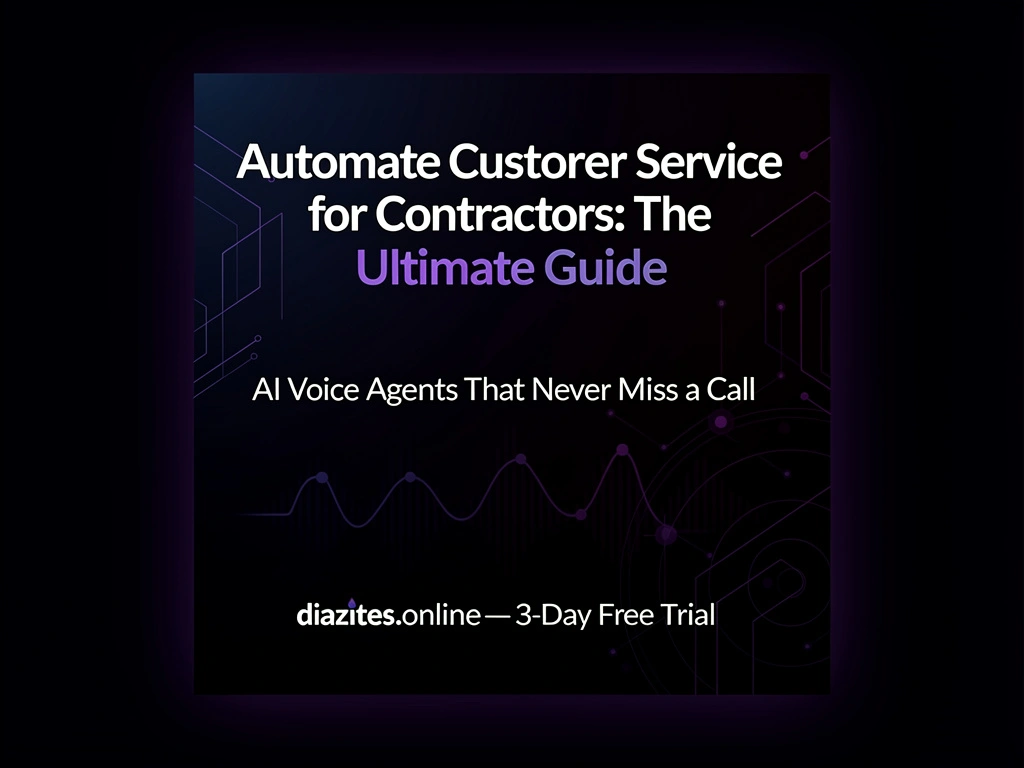
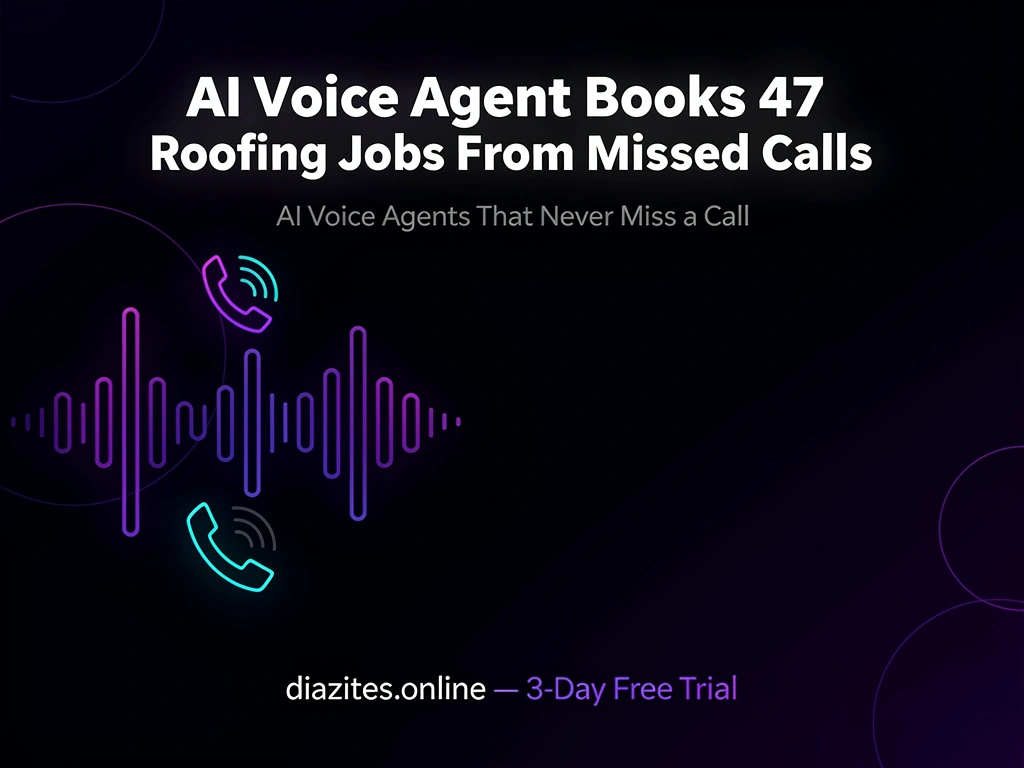
fix: blog /blog/ route + 4 articles + flyer — deploy to PROD

diff --git a/static/blog/2026-08-11-ai-voice-agent-roofing-missed-calls-47-jobs.html b/static/blog/2026-08-11-ai-voice-agent-roofing-missed-calls-47-jobs.html
@@ -1,0 +1,53 @@
+<!DOCTYPE html>
+<html lang="en">
+<head>
+<meta charset="UTF-8">
+<meta name="viewport" content="width=device-width, initial-scale=1.0">
+<title>AI Voice Agent Books 47 Roofing Jobs From Missed Calls | Diazites AI</title>
+<meta name="description" content="See how a roofing company turned 47 missed calls into booked jobs with an AI voice agent. Cut response time, win more roofs, and never lose a lead again.">
+<meta name="keywords" content="AI voice agent for roofing, missed call AI, roofing lead response, AI answering service, roofing contractor automation">
+<meta property="og:title" content="AI Voice Agent Books 47 Roofing Jobs From Missed Calls">
+<meta property="og:description" content="See how a roofing company turned 47 missed calls into booked jobs with an AI voice agent. Cut response time, win more roofs, and never lose a lead again.">
+<meta property="og:url" content="https://diazites.online/blog/2026-08-11-ai-voice-agent-roofing-missed-calls-47-jobs.html">
+<meta property="og:type" content="article">
+<link rel="canonical" href="https://diazites.online/blog/2026-08-11-ai-voice-agent-roofing-missed-calls-47-jobs.html">
+<style>
+  *{margin:0;padding:0;box-sizing:border-box}
+  body{font-family:-apple-system,BlinkMacSystemFont,'Segoe UI',sans-serif;background:#0a0a12;color:#e2e8f0;line-height:1.7}
+  .container{max-width:800px;margin:0 auto;padding:40px 20px}
+  h1{font-size:2.2em;margin-bottom:10px;background:linear-gradient(135deg,#a855f7,#ec4899);-webkit-background-clip:text;-webkit-text-fill-color:transparent}
+  h2{font-size:1.5em;margin:30px 0 15px;color:#a855f7}
+  p{margin-bottom:18px;color:#cbd5e1}
+  ul{margin:15px 0 15px 25px}
+  li{margin-bottom:8px;color:#cbd5e1}
+  .meta{color:#64748b;font-size:0.9em;margin-bottom:30px}
+  .cta{background:linear-gradient(135deg,#a855f7,#ec4899);padding:25px;border-radius:16px;text-align:center;margin:40px 0}
+  .cta a{color:white;font-weight:bold;font-size:1.2em;text-decoration:none}
+  .cta p{color:rgba(255,255,255,0.85);margin:10px 0 0}
+  .footer{text-align:center;color:#475569;font-size:0.85em;margin-top:60px;padding-top:30px;border-top:1px solid #1e1e2e}
+</style>
+</head>
+<body>
+<div class="container">
+<h1>AI Voice Agent Books 47 Roofing Jobs From Missed Calls</h1>
+<div class="meta">Published August 11, 2026 · Diazites AI · 583 words</div>
+<h2>Why Missed Calls Are Costing Roofers Thousands</h2>
+<p>For a roofing contractor, the phone rings when the storm does. Hail damage, wind-stripped shingles, and leaking ceilings don't wait for business hours — and neither do homeowners. Yet the average roofing company misses 20-30% of incoming calls, according to industry estimates. Every missed call is a competitor's estimate, a lost permit, and a job that goes to someone else. One mid-sized roofing company in the Midwest decided to stop accepting that math. They deployed an AI voice agent to answer every single call, 24/7, and booked 47 jobs from calls that previously would have rolled to voicemail. The fix wasn't a bigger sales team or a more expensive CRM. It was answering the phone — every time, in under three seconds.</p>
+<p>The problem wasn't that their crews were lazy. It was that they were busy. When a roofer is on a ladder, on a roof, or driving between estimates, they can't pick up. The old solution — an answering service — cost hundreds per month and often just took a message, which the homeowner never returned. The AI voice agent changed the game by doing what a human receptionist does, but faster and cheaper: it answers, qualifies the caller, checks availability, and books the estimate directly into the calendar. For the homeowner, it sounds like a real person. For the roofer, it's a booked appointment that shows up automatically.</p>
+<h2>How the AI Agent Turned Calls Into Booked Jobs</h2>
+<p>The roofing company didn't just install the agent and hope. They set it up with a specific workflow designed to convert callers at the moment of peak intent. Here's the system that produced 47 booked jobs:</p>
+<ul><li>Answer in under 3 seconds: The AI agent picks up instantly, day or night, so the caller never has a chance to hang up and call the next roofer on Google.</li><li>Qualify before you dispatch: The agent asks about the type of damage, the age of the roof, insurance involvement, and whether it's an emergency — so the roofer only drives out for real jobs.</li><li>Book directly into the calendar: The agent checks the roofer's availability, offers two or three time slots, and confirms the appointment in real time. No back-and-forth texts, no "I'll call you back."</li></ul>
+<p>That last point was the biggest win. By booking the estimate immediately, the company cut its average lead-to-appointment time from 8 hours to under 5 minutes. In roofing, speed is everything — homeowners who get a fast response convert at more than twice the rate of those who wait. The result: 47 confirmed jobs that would have been dead air, with a conversion rate on those calls of roughly 60%, well above the industry average for inbound leads.</p>
+<p>The agent also captured caller details, notes, and photos sent via text, so the sales rep walked into every estimate already knowing the situation. That prep time alone saved the crew hours each week and made them look far more professional than the competitor who showed up cold. The roofing company now treats every missed call as a process failure, not an inevitability — and their revenue reflects it.</p>
+<p>If your roofing company is still losing leads to voicemail, you're leaving money on the roof. An AI voice agent isn't a luxury anymore — it's the cheapest salesperson you'll ever hire, and it never sleeps. Stop watching calls ring out and start watching them book.</p>
+<p><strong>Ready to automate your calls?</strong> <a href="https://diazites.online">Try Diazites free for 3 days →</a></p>
+<div class="cta">
+  <a href="https://diazites.online">🚀 Try Diazites Free for 3 Days →</a>
+  <p>AI voice agents that answer every call, book appointments, and follow up 24/7. No setup fees.</p>
+</div>
+<div class="footer">
+  © 2026 Diazites AI · <a href="https://diazites.online" style="color:#a855f7">diazites.online</a> · AI Voice Agents for Small Business
+</div>
+</div>
+</body>
+</html>

diff --git a/static/blog/index.html b/static/blog/index.html
@@ -31,6 +31,10 @@ h1{font-size:2.5em;margin-bottom:8px;background:linear-gradient(135deg,#a855f7,#
 <h2 style="margin:0 0 10px"><a href="/blog/2026-08-11-automate-customer-service-contractors.html" style="color:#a855f7;text-decoration:none;font-size:1.3em">Automate Customer Service for Contractors: The Ultimate Guide | Diazites AI</a></h2>
 <p style="color:#94a3b8;margin:0 0 8px">Discover how AI voice agents automate contractor customer service — answer calls 24/7, book jobs, and win more leads. Try Diazites free for 3 days.</p>
 <small style="color:#475569">2026-08-11</small>
+</article><article style="background:#13132a;border:1px solid #1e1e3e;border-radius:16px;padding:25px;margin-bottom:20px">
+<h2 style="margin:0 0 10px"><a href="/blog/2026-08-11-ai-voice-agent-roofing-missed-calls-47-jobs.html" style="color:#a855f7;text-decoration:none;font-size:1.3em">AI Voice Agent Books 47 Roofing Jobs From Missed Calls | Diazites AI</a></h2>
+<p style="color:#94a3b8;margin:0 0 8px">See how a roofing company turned 47 missed calls into booked jobs with an AI voice agent. Cut response time, win more roofs, and never lose a lead again.</p>
+<small style="color:#475569">2026-08-11</small>
 </article>
 <div class="cta">
   <a href="https://diazites.online">🚀 Try Diazites Free →</a>

diff --git a/multi_biz_dashboard_v2.py b/multi_biz_dashboard_v2.py
@@ -565,7 +565,7 @@ body{background:#08080f;color:#f1f1f5;overflow-x:hidden}
         <ul class="text-left space-y-3 text-sm mb-8">
           <li class="flex items-center gap-2"><span class="text-green-400">✓</span> 2 AI Voice Agents</li>
           <li class="flex items-center gap-2"><span class="text-green-400">✓</span> 2 Phone Numbers</li>
-          <li class="flex items-center gap-2"><span class="text-green-400">✓</span> <strong>1,000</strong> Call Minutes</li>
+          <li class="flex items-center gap-2"><span class="text-green-400">✓</span> <strong>550</strong> Call Minutes</li>
           <li class="flex items-center gap-2"><span class="text-green-400">✓</span> Advanced Analytics & Reports</li>
           <li class="flex items-center gap-2"><span class="text-green-400">✓</span> Priority Support</li>
           <li class="flex items-center gap-2"><span class="text-green-400">✓</span> Outbound Campaigns</li>
@@ -2736,7 +2736,7 @@ def dashboard():
     plan_key = biz.get('plan', 'starter') or 'starter'
     pricing_tiers = {
         "starter": {"name": "Starter", "price": 97, "minutes_limit": 250, "features": ["1 AI Agent", "1 Number", "250 min", "Booking", "Analytics", "Email Support"]},
-        "pro": {"name": "Professional", "price": 197, "minutes_limit": 1000, "features": ["2 AI Agents", "2 Numbers", "1000 min", "Campaigns", "SMS", "Calendar", "Priority Support"]},
+        "pro": {"name": "Professional", "price": 197, "minutes_limit": 550, "features": ["2 AI Agents", "2 Numbers", "550 min", "Campaigns", "SMS", "Calendar", "Priority Support"]},
         "premium": {"name": "Premium", "price": 297, "minutes_limit": 2500, "features": ["3 AI Agents", "3 Numbers", "2500 min", "Forwarding", "Priority Support"]},
         "enterprise": {"name": "Enterprise", "price": 497, "minutes_limit": 7500, "features": ["5 AI Agents", "5 Numbers", "7500 min", "API", "White-Label", "Dedicated Manager"]},
         "custom": {"name": "Custom", "price": 997, "minutes_limit": 0, "features": ["Custom config"]}

diff --git a/admin_panel.py b/admin_panel.py
@@ -118,7 +118,7 @@ INDUSTRY_PRESETS = {
 
 PRICING_TIERS = {
     "starter": {"name": "Starter", "price": 97, "calls_included": 500, "minutes_limit": 250, "features": "1 AI agent, 1 number, unlimited calls, 250 min, booking, email support"},
-    "pro": {"name": "Professional", "price": 197, "calls_included": 2000, "minutes_limit": 500, "features": "2 AI agents, 2 numbers, unlimited calls, 500 min, campaigns, SMS, calendar"},
+    "pro": {"name": "Professional", "price": 197, "calls_included": 2000, "minutes_limit": 550, "features": "2 AI agents, 2 numbers, unlimited calls, 550 min, campaigns, SMS, calendar"},
     "premium": {"name": "Premium", "price": 250, "calls_included": 5000, "minutes_limit": 1000, "features": "3 AI agents, 3 numbers, unlimited calls, 1000 min, forwarding, priority support"},
     "enterprise": {"name": "Enterprise", "price": 497, "calls_included": 15000, "minutes_limit": 5000, "features": "5 AI agents, 5 numbers, unlimited calls, 5000 min, white-label, API"},
     "custom": {"name": "Custom", "price": 997, "calls_included": 0, "minutes_limit": 0, "features": "Fully customizable package"}

diff --git a/agent_api.py b/agent_api.py
@@ -458,7 +458,7 @@ def api_me_get_settings(api_key):
 
     pricing_tiers = {
         "starter": {"name": "Starter", "minutes": 250, "price": 97},
-        "pro": {"name": "Professional", "minutes": 500, "price": 197},
+        "pro": {"name": "Professional", "minutes": 550, "price": 197},
         "premium": {"name": "Premium", "minutes": 1000, "price": 250},
         "enterprise": {"name": "Enterprise", "minutes": 5000, "price": 497},
     }
